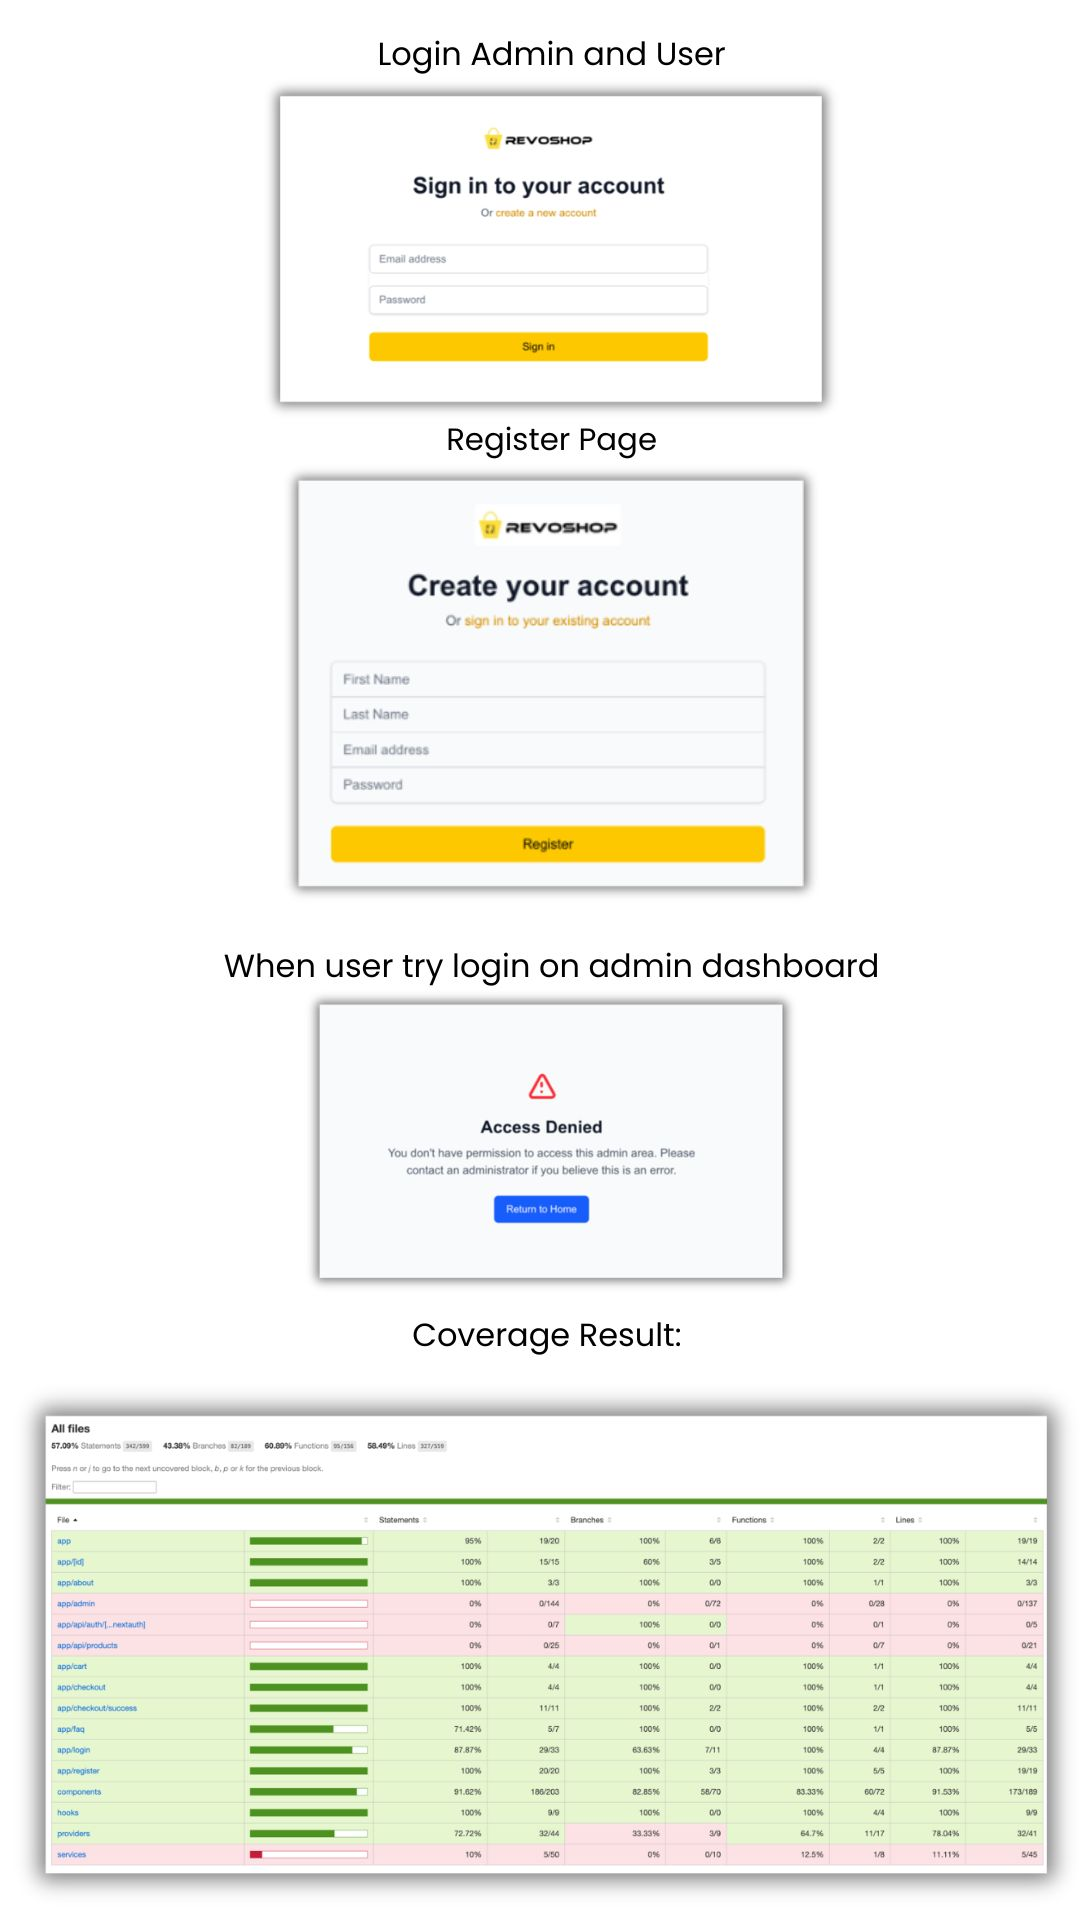
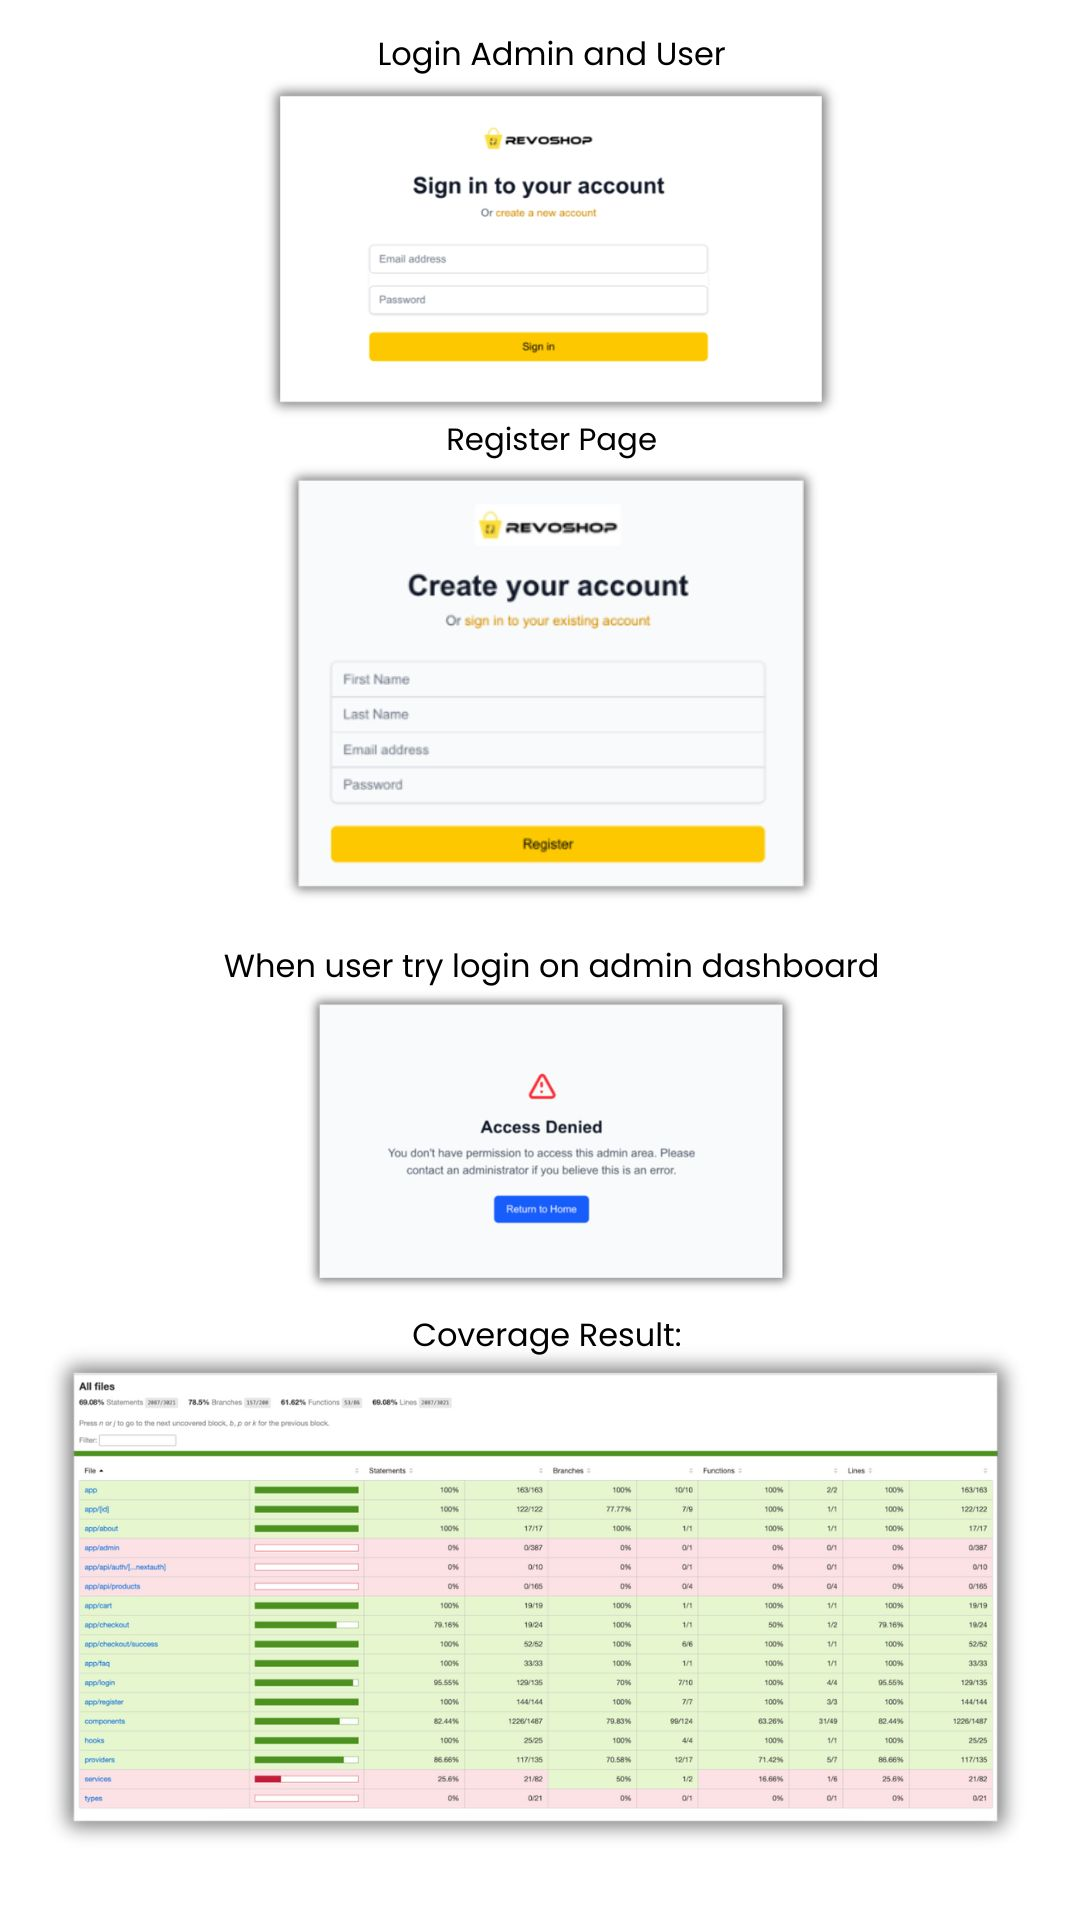
feat(navbar): make navbar sticky on scroll and add test attributes

Changed region(s): [[0.0306, 0.6875, 1.0, 1.0]]

diff --git a/src/__tests__/app/admin/page.test.tsx b/src/__tests__/app/admin/page.test.tsx
@@ -1,8 +1,8 @@
 import React from "react";
 import { render, screen, fireEvent, waitFor } from "@testing-library/react";
 // Make sure this import is correct
-//import AdminDashboard from "../../../app/admin/page";
-import AdminDashboard from "../../../app/admin/__tests__/page";
+import AdminDashboard from "../../../app/admin/page";
+//import AdminDashboard from "../../../app/admin/__tests__/page";
 
 // Mock next-auth
 const mockUseSession = jest.fn();
@@ -627,7 +627,7 @@ describe("AdminDashboard", () => {
       
       await waitFor(() => screen.getByTestId("product-table"));
       
-      fireEvent.click(screen.getByText(/add new product/i));
+      fireEvent.click(screen.getByTestId("product-1"));
       
       fireEvent.change(screen.getByTestId("title-input"), { 
         target: { value: "New Product" } 
@@ -662,6 +662,130 @@ describe("AdminDashboard", () => {
       await waitFor(() => {
         expect(mockAlert).toHaveBeenCalledWith("Failed to update product. Please try again.");
       });
+    });
+  });
+});
+
+// Add these tests to your existing test file
+
+describe("Admin Dashboard UI and Interactions", () => {
+  beforeEach(() => {
+    // Mock successful API responses
+    mockFetch.mockImplementation((url) => {
+      if (url.includes('/products')) {
+        return Promise.resolve({
+          ok: true,
+          json: () => Promise.resolve(mockProducts)
+        });
+      } else if (url.includes('/categories')) {
+        return Promise.resolve({
+          ok: true,
+          json: () => Promise.resolve(mockCategories)
+        });
+      }
+      return Promise.resolve({
+        ok: true,
+        json: () => Promise.resolve({})
+      });
+    });
+
+    // Mock authenticated admin session
+    mockUseSession.mockReturnValue({
+      status: "authenticated",
+      data: { user: { name: "Admin User", role: "admin" } }
+    });
+  });
+
+  it("renders the admin dashboard with products", async () => {
+    render(<AdminDashboard />);
+    
+    // Wait for products to load
+    await waitFor(() => {
+      expect(screen.getByTestId("admin-dashboard")).toBeInTheDocument();
+    });
+    
+    // Check if product table is rendered
+    expect(screen.getByTestId("product-table-container")).toBeInTheDocument();
+    
+    // Check if products are displayed
+    await waitFor(() => {
+      expect(screen.getByTestId("product-1")).toBeInTheDocument();
+    });
+  });
+
+  it("allows searching for products", async () => {
+    render(<AdminDashboard />);
+    
+    // Wait for products to load
+    await waitFor(() => {
+      expect(screen.getByTestId("search-input")).toBeInTheDocument();
+    });
+    
+    // Type in search box
+    const searchInput = screen.getByTestId("search-input");
+    fireEvent.change(searchInput, { target: { value: "Electronics" } });
+    
+    // Check if filtered products are displayed
+    await waitFor(() => {
+      expect(screen.getByTestId("product-1")).toBeInTheDocument();
+      // Product 2 should be filtered out if it doesn't match "Electronics"
+      expect(screen.queryByTestId("product-2")).not.toBeInTheDocument();
+    });
+  });
+
+  it("shows the product form when add button is clicked", async () => {
+    render(<AdminDashboard />);
+    
+    // Wait for dashboard to load
+    await waitFor(() => {
+      expect(screen.getByTestId("add-product-button")).toBeInTheDocument();
+    });
+    
+    // Click add product button
+    fireEvent.click(screen.getByTestId("add-product-button"));
+    
+    // Check if form is displayed
+    expect(screen.getByTestId("product-form-container")).toBeInTheDocument();
+  });
+
+  it("allows editing a product", async () => {
+    render(<AdminDashboard />);
+    
+    // Wait for products to load
+    await waitFor(() => {
+      expect(screen.getByTestId("product-1")).toBeInTheDocument();
+    });
+    
+    // Click edit button for first product
+    fireEvent.click(screen.getByTestId("edit-button-1"));
+    
+    // Check if form is displayed with product data
+    await waitFor(() => {
+      expect(screen.getByTestId("product-form-container")).toBeInTheDocument();
+      expect(screen.getByTestId("title-input")).toHaveValue("Mock Product");
+    });
+  });
+
+  it("allows deleting a product with confirmation", async () => {
+    // Mock confirm to return true
+    mockConfirm.mockReturnValue(true);
+    
+    render(<AdminDashboard />);
+    
+    // Wait for products to load
+    await waitFor(() => {
+      expect(screen.getByTestId("product-1")).toBeInTheDocument();
+    });
+    
+    // Click delete button for first product
+    fireEvent.click(screen.getByTestId("delete-button-1"));
+    
+    // Check if confirmation was shown
+    expect(mockConfirm).toHaveBeenCalled();
+    
+    // Check if product was removed
+    await waitFor(() => {
+      expect(screen.queryByTestId("product-1")).not.toBeInTheDocument();
     });
   });
 });

diff --git a/src/app/admin/page.tsx b/src/app/admin/page.tsx
@@ -16,14 +16,14 @@ type Category = {
 
 // Loading component
 const LoadingSpinner = () => (
-  <div className="flex items-center justify-center min-h-screen">
+  <div className="flex items-center justify-center min-h-screen" data-testid="loading-spinner" role="status">
     <div className="animate-spin rounded-full h-32 w-32 border-b-2 border-blue-600"></div>
   </div>
 );
 
 // Unauthorized access component
 const UnauthorizedAccess = () => (
-  <div className="flex items-center justify-center min-h-screen bg-gray-50">
+  <div className="flex items-center justify-center min-h-screen bg-gray-50" data-testid="unauthorized-access">
     <div className="max-w-md mx-auto text-center">
       <div className="mb-4">
         <svg className="mx-auto h-12 w-12 text-red-500" fill="none" viewBox="0 0 24 24" stroke="currentColor">
@@ -315,7 +315,7 @@ export default function AdminDashboard() {
   };
 
   return (
-    <div className="flex h-screen bg-gray-50">
+    <div className="flex h-screen bg-gray-50" data-testid="admin-dashboard">
       {/* Sidebar */}
       <AdminSidebar userName={session?.user?.name ?? undefined} />
       
@@ -324,6 +324,7 @@ export default function AdminDashboard() {
         <div className="flex justify-between items-center mb-6">
           <h2 className="text-2xl font-bold">Product Management</h2>
           <button 
+            data-testid="add-product-button"
             onClick={() => { 
               resetForm();
               setShowForm(true);
@@ -340,6 +341,7 @@ export default function AdminDashboard() {
         <div className="mb-6">
           <div className="relative">
             <input
+              data-testid="search-input"
               type="text"
               placeholder="Search products by title or category..."
               className="w-full border border-gray-300 rounded-md py-2 px-4 pl-10 focus:outline-orange-400"
@@ -356,25 +358,29 @@ export default function AdminDashboard() {
         
         {/* Form (conditionally rendered) */}
         {(editingId || showForm) && (
-          <AdminProductForm
-            form={form}
-            categories={categories}
-            editingId={editingId}
-            loading={loading}
-            onSubmit={handleSubmit}
-            onChange={handleChange}
-            onCancel={resetForm}
-            onImageChange={handleImageChange}
-          />
+          <div data-testid="product-form-container">
+            <AdminProductForm
+              form={form}
+              categories={categories}
+              editingId={editingId}
+              loading={loading}
+              onSubmit={handleSubmit}
+              onChange={handleChange}
+              onCancel={resetForm}
+              onImageChange={handleImageChange}
+            />
+          </div>
         )}
         
         {/* Products Table */}
-        <AdminProductTable 
-          products={products}
-          searchQuery={searchQuery}
-          onEdit={handleEdit}
-          onDelete={handleDelete}
-        />
+        <div data-testid="product-table-container">
+          <AdminProductTable 
+            products={products}
+            searchQuery={searchQuery}
+            onEdit={handleEdit}
+            onDelete={handleDelete}
+          />
+        </div>
       </div>
     </div>
   );

diff --git a/src/components/NavbarClient.tsx b/src/components/NavbarClient.tsx
@@ -16,10 +16,36 @@ export default function NavbarClient() {
   const [mounted, setMounted] = useState(false);
   const [isCartHighlighted, setIsCartHighlighted] = useState(false);
   const [prevCartItemsLength, setPrevCartItemsLength] = useState(0);
+  const [isScrolled, setIsScrolled] = useState(false);
 
   // Prevent hydration mismatch by only rendering client-specific elements after mount
   useEffect(() => {
     setMounted(true);
+  }, []);
+
+  // Handle scroll event to make navbar sticky
+  useEffect(() => {
+    // Only run on client side
+    if (typeof window === 'undefined') return;
+    
+    const handleScroll = () => {
+      if (window.scrollY > 50) { // Reduced threshold to make it sticky sooner
+        setIsScrolled(true);
+      } else {
+        setIsScrolled(false);
+      }
+    };
+
+    // Add scroll event listener
+    window.addEventListener('scroll', handleScroll);
+    
+    // Initial check on mount
+    handleScroll();
+    
+    // Clean up event listener
+    return () => {
+      window.removeEventListener('scroll', handleScroll);
+    };
   }, []);
 
   // Add animation effect when cart items change
@@ -53,7 +79,14 @@ export default function NavbarClient() {
 
   return (
     <>
-      <div className="w-full bg-white">
+      <div 
+        className={`w-full bg-white ${isScrolled ? 'fixed top-0 left-0 right-0 z-[100] shadow-lg transition-all duration-300 ease-in-out' : ''}`}
+        style={{ 
+          position: isScrolled ? 'fixed' : 'relative',
+          width: '100%',
+          transition: 'all 0.3s ease-in-out'
+        }}
+      >
         <nav className="max-w-7xl mx-auto px-6">
           <div className="flex items-center justify-between py-3 gap-x-6">
             {/* Left: Logo & Category (hide category on mobile) */}
@@ -137,6 +170,9 @@ export default function NavbarClient() {
           <span className="bg-yellow-400 text-black px-6 py-2 rounded font-semibold flex items-center gap-2"><span className="fa-solid fa-phone"></span> Hotline Number: +62812 3456 7890</span>
         </div>
       </div>
+      
+      {/* Add a spacer when navbar is fixed to prevent content jump */}
+      {isScrolled && <div className="h-[150px] md:h-[170px]"></div>}
       
       {/* Toast notification */}
       {mounted && showNotification && (

diff --git a/src/app/api/products/route.ts b/src/app/api/products/route.ts
@@ -5,12 +5,14 @@ import { Product } from '../../../types/type';
 let products: Product[] = [];
 
 // Helper function to reset products for testing
-// Export for testing purposes but mark as internal
-/** @internal */
-export function resetProducts() {
+// Make it non-exported for production build
+function resetProducts() {
   products = [];
   return true; // Return value to ensure function execution is covered
 }
+
+// For testing purposes, expose the function on the GET handler
+GET.resetProducts = resetProducts;
 
 export async function GET() {
   return NextResponse.json(products);

diff --git a/src/app/checkout/page.tsx b/src/app/checkout/page.tsx
@@ -1,8 +1,17 @@
+'use client';
 import Navbar from '../../components/Navbar';
 import Footer from '../../components/Footer';
 import CheckoutClient from '@/components/CheckoutClient';
 
 export default function CheckoutPage() {
+  // Move the function inside the component
+  const handleSomething = () => {
+    if (typeof window !== 'undefined') {
+      // Now it's safe to use location
+      window.location.href = '/some-path';
+    }
+  };
+  
   return (
     <div className="bg-white min-h-screen font-sans">
       <Navbar />
